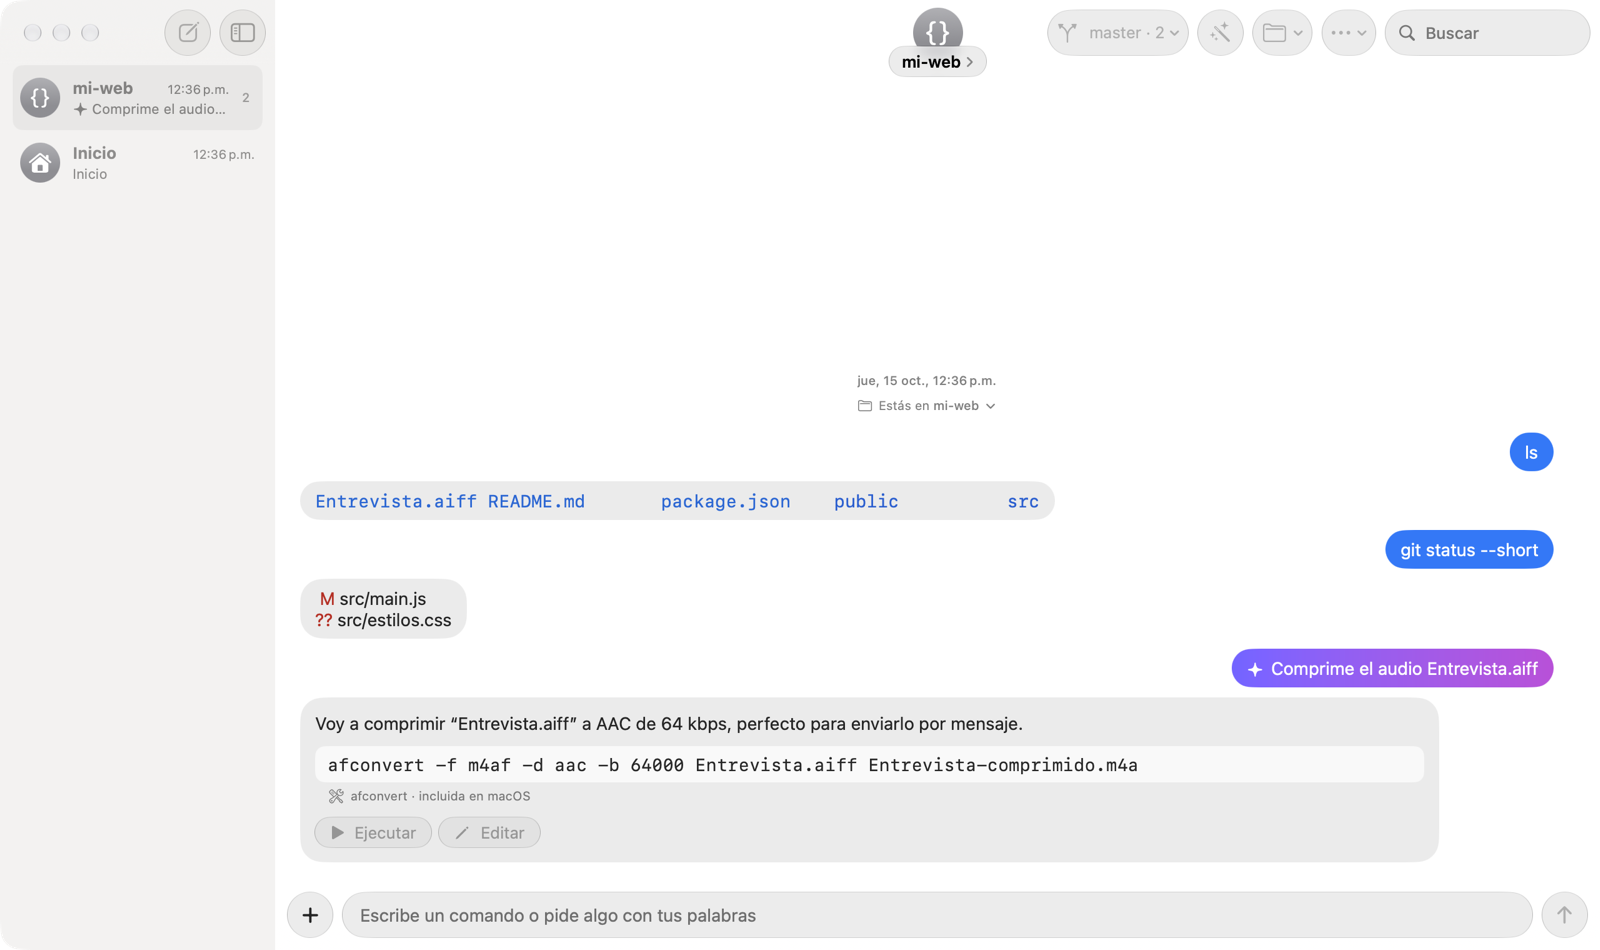
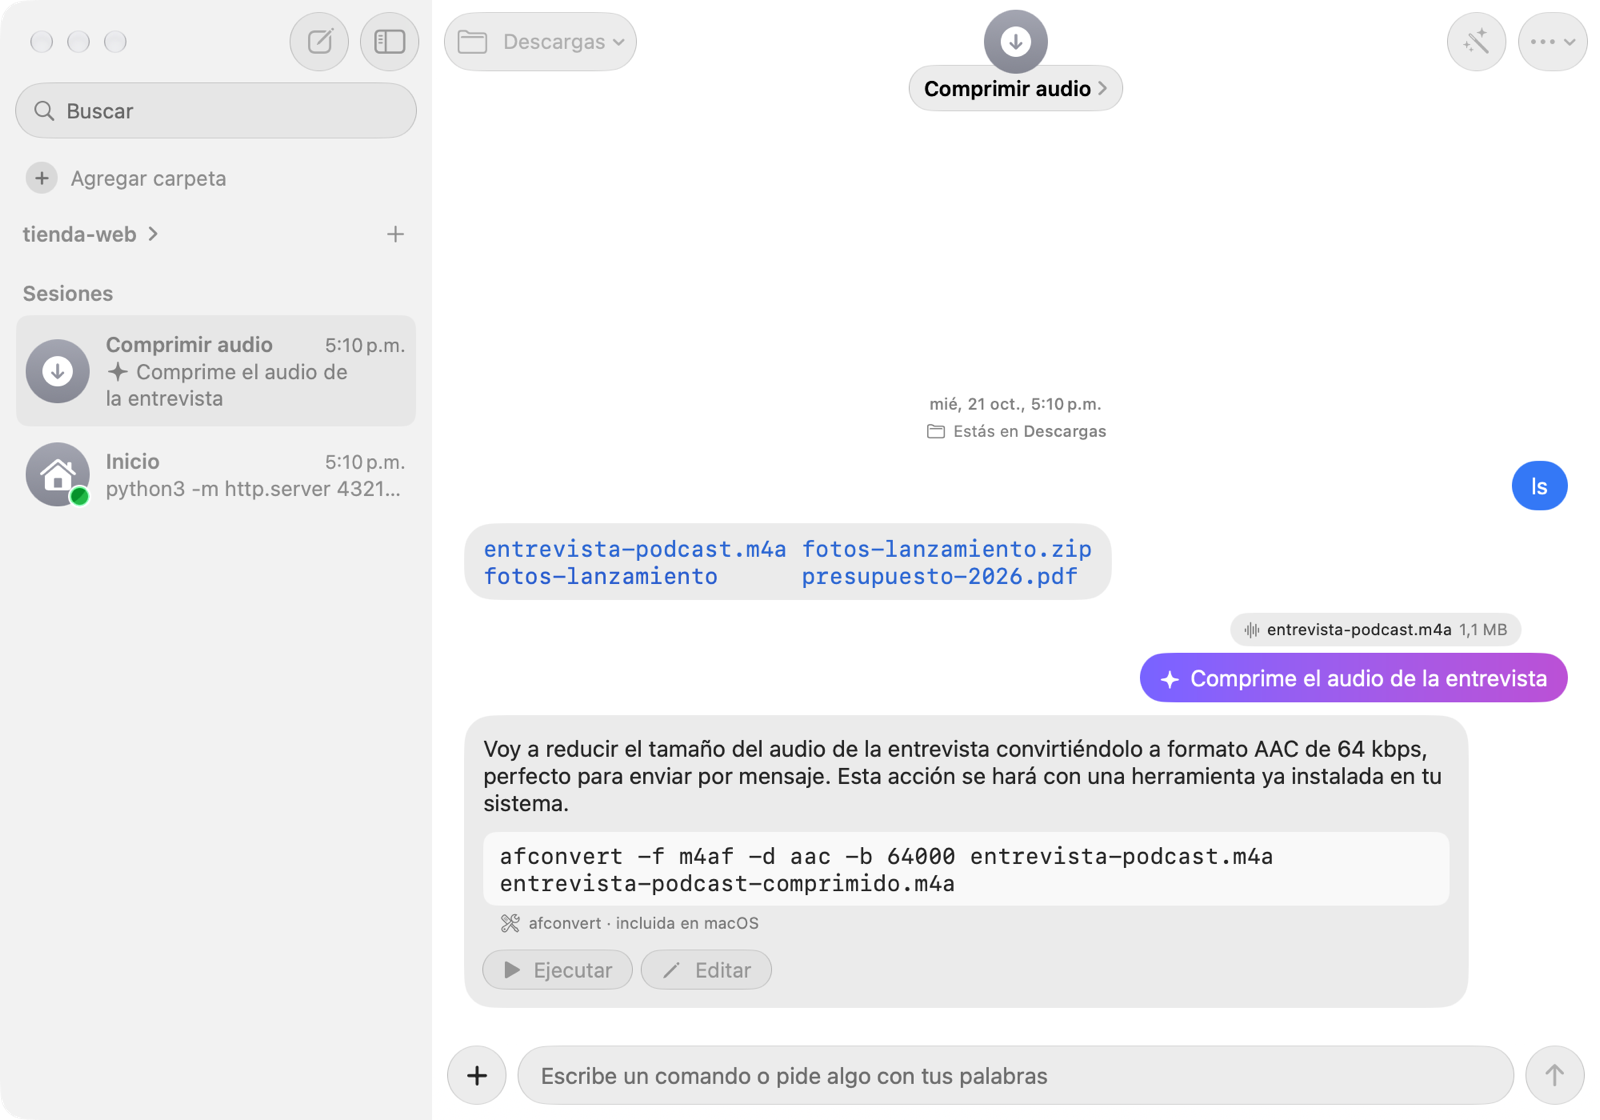
Capturas del README con la 1.6 y la guía al día
La guía y el README ya no dicen que se presione «Estás en…» para cambiar
de carpeta: desde la 1.6 eso es el botón de carpeta de arriba.

diff --git a/NativeTerminal/Assistant/AppGuide.swift b/NativeTerminal/Assistant/AppGuide.swift
@@ -122,7 +122,7 @@ nonisolated enum AppGuide {
             (String(localized: "Comando es una terminal con forma de chat: escribes un comando, o lo que quieres hacer en tus palabras, y la respuesta llega como un mensaje."), [
                 item("apple.terminal", "Escribe comandos", "Como en cualquier terminal, con tu zsh y tu configuración: ls, git status, npm run dev."),
                 item("sparkle", "Pide en tus palabras", "«Comprime este video» o «sube mis cambios»: el asistente te propone el comando y tú decides si se ejecuta."),
-                item("folder", "Muévete entre carpetas", "Presiona «Estás en…» sobre los mensajes para ir a otra carpeta o abrirla en Finder."),
+                item("folder", "Muévete entre carpetas", "El botón de carpeta, arriba a la izquierda, te lleva a otra o la abre en Finder."),
                 item("sidebar.left", "Trabaja en varias sesiones", "Cada sesión es un shell aparte, con su carpeta y su historial. ⌘T abre una nueva."),
                 item("shippingbox", "Ordena tus herramientas", "⇧⌘I muestra lo que tienes instalado con Homebrew y npm, para actualizarlo o quitarlo."),
             ])
@@ -144,7 +144,7 @@ nonisolated enum AppGuide {
             ])
         case .folders:
             (String(localized: "Cada sesión trabaja en una carpeta, y sobre los mensajes te dice en cuál estás."), [
-                item("folder", "Presiona «Estás en…»", "Abre un menú para ir a otra carpeta, a una reciente o mostrarla en Finder."),
+                item("folder", "El botón de carpeta", "Arriba a la izquierda: abre un menú para ir a otra carpeta, a una reciente o mostrarla en Finder."),
                 item("arrow.up", "Sube un nivel", "⌘↑ va a la carpeta que contiene la actual."),
                 item("house", "Lugares de siempre", "⇧⌘H Inicio, ⇧⌘D Escritorio, ⇧⌘O Documentos y ⌥⌘L Descargas."),
                 item("folder.badge.questionmark", "Cualquier carpeta", "⇧⌘G abre el selector de carpetas. También puedes escribir cd como siempre."),

diff --git a/README.md b/README.md
@@ -19,7 +19,7 @@
 <p align="center">
   <picture>
     <source media="(prefers-color-scheme: dark)" srcset="docs/images/chat-oscuro.png">
-    <img src="docs/images/chat-claro.png" alt="Comando con comandos de git y un pedido al asistente para comprimir un audio">
+    <img src="docs/images/chat-claro.png" alt="Comando con un pedido al asistente para comprimir un audio y, en la barra lateral, otra sesión con un servidor en marcha">
   </picture>
 </p>
 
@@ -45,7 +45,7 @@
 - **Recetas (⌘K).** Tareas comunes explicadas en lenguaje simple.
 - **Herramientas (⇧⌘I).** Todo lo que instalaste con Homebrew, npm (de cada versión de Node), pipx y uv, con actualizaciones y opción de desinstalar.
 - **Guía.** Pregúntale al asistente “¿qué hace?”, “¿cómo cambio de carpeta?” o “¿qué atajos hay?”.
-- **Carpetas.** Presiona “Estás en…” sobre los mensajes para ir a otra carpeta o abrirla en Finder.
+- **Carpetas.** El botón de carpeta, arriba a la izquierda, te lleva a otra o la abre en Finder; sobre los mensajes queda dicho dónde corrió cada uno.
 - **Sesiones.** Se guardan en la barra lateral, con su historial, su carpeta, un emoji y un color.
 
 ## Pregúntale qué hace
